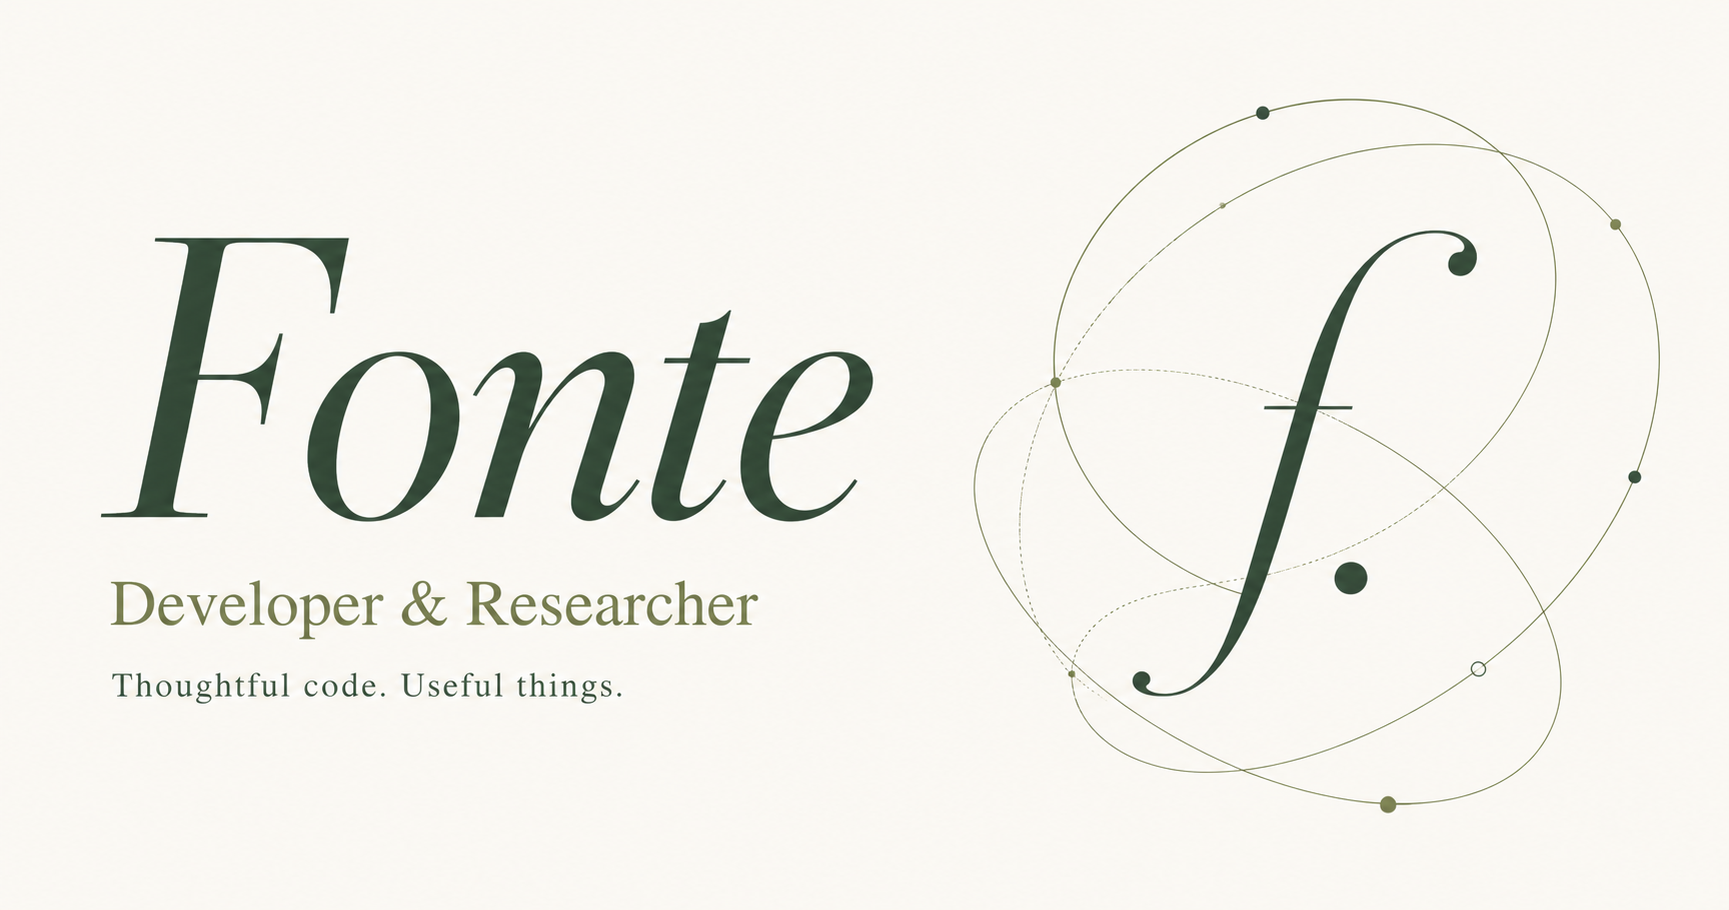
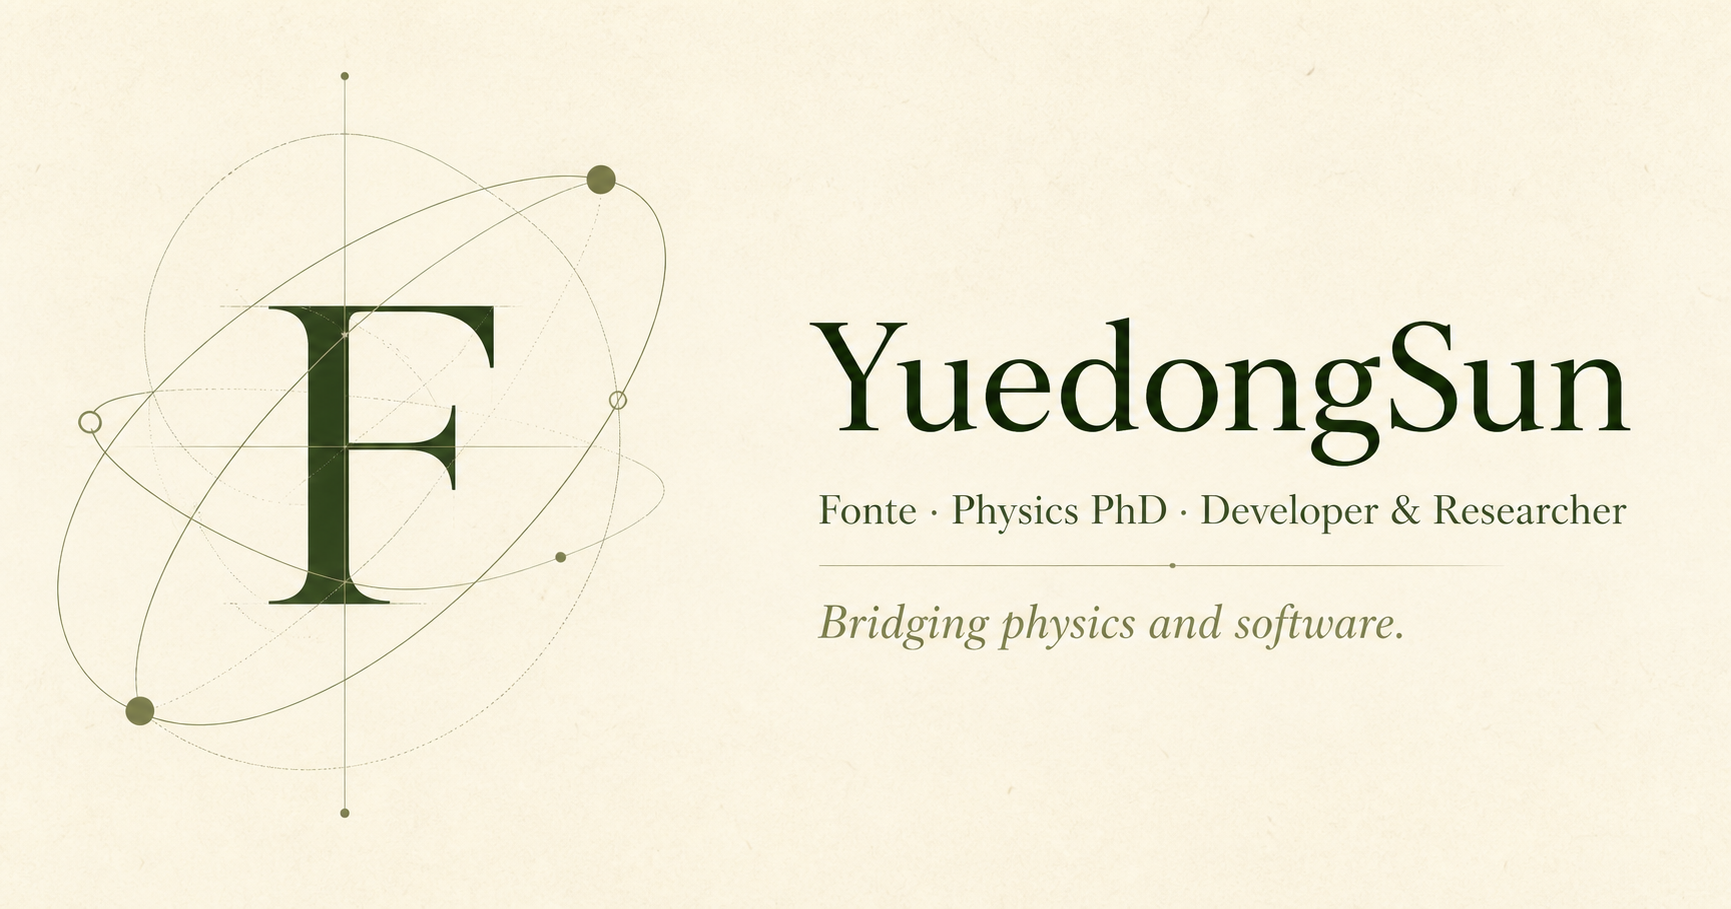
Increase CV typography and update identity

diff --git a/app/globals.css b/app/globals.css
@@ -2026,3 +2026,212 @@ body {
 }
 
 }
+@media screen {
+  body {
+    font-size: 16px;
+  }
+  .site_header nav {
+    font-size: 14px;
+  }
+  .header_note {
+    font-size: 11px;
+  }
+  .eyebrow {
+    font-size: 11px;
+  }
+  .brand_mark {
+    font-size: 30px;
+    line-height: 33px;
+  }
+  .hero h1 {
+    font-size: 78px;
+    letter-spacing: -4px;
+  }
+  .hero_description {
+    font-size: 16px;
+    line-height: 1.85;
+  }
+  .hero_footnote {
+    font-size: 10px;
+  }
+  .button,
+  .text_link {
+    font-size: 13px;
+  }
+  .button {
+    min-height: 50px;
+  }
+  .card_topline {
+    font-size: 10px;
+  }
+  .profile_letter {
+    font-size: 170px;
+    letter-spacing: -8px;
+  }
+  .profile_caption h2 {
+    font-size: 28px;
+  }
+  .profile_caption p,
+  .profile_details {
+    font-size: 13px;
+  }
+  .focus_strip {
+    font-size: 13px;
+  }
+  .focus_strip .eyebrow {
+    font-size: 9px;
+  }
+  .section_heading .eyebrow {
+    font-size: 10px;
+  }
+  .section_heading h2 {
+    font-size: 50px;
+  }
+  .section_aside {
+    font-size: 14px;
+  }
+  .experience_lead {
+    font-size: 24px;
+  }
+  .timeline_period {
+    font-size: 10px;
+  }
+  .timeline_entry h3,
+  .education_entry h3 {
+    font-size: 19px;
+  }
+  .timeline_organization {
+    font-size: 13px;
+  }
+  .timeline_description,
+  .muted_text {
+    font-size: 15px;
+  }
+  .focus_areas li {
+    font-size: 12px;
+  }
+  .draft_note {
+    font-size: 10px;
+  }
+  .projects_intro {
+    font-size: 14px;
+  }
+  .project_filters button {
+    font-size: 12px;
+  }
+  .project_count {
+    font-size: 10px;
+  }
+  .art_index {
+    font-size: 9px;
+  }
+  .project_title_row h3 {
+    font-size: 26px;
+  }
+  .project_body > p {
+    font-size: 14px;
+  }
+  .project_body > p.project_detail {
+    font-size: 12px !important;
+  }
+  .project_tags li {
+    font-size: 10px;
+  }
+  .research_title {
+    font-size: 16px;
+  }
+  .research_item time {
+    font-size: 11px;
+  }
+  .research_summary {
+    font-size: 15px;
+  }
+  .research_details {
+    font-size: 14px;
+  }
+  .research_keywords li {
+    font-size: 10px;
+  }
+  .research_figure figcaption {
+    font-size: 11px;
+  }
+  .publication_copy h3 {
+    font-size: 15px;
+  }
+  .publication_copy > p {
+    font-size: 11px;
+  }
+  .publication_meta {
+    font-size: 12px;
+  }
+  .publication_status {
+    font-size: 10px;
+  }
+  .skill_group_header > span {
+    font-size: 11px;
+  }
+  .skill_group li {
+    font-size: 12px;
+  }
+  .contact_description {
+    font-size: 15px;
+  }
+  .contact_links a {
+    font-size: 13px;
+  }
+  .contact_availability {
+    font-size: 10px;
+  }
+  .footer_caption {
+    font-size: 11px;
+  }
+}
+@media screen and (max-width: 1000px) {
+  .hero h1 {
+    font-size: 64px;
+  }
+  .hero_description {
+    font-size: 15px;
+  }
+  .section_heading h2 {
+    font-size: 45px;
+  }
+  .experience_lead {
+    font-size: 22px;
+  }
+  .project_title_row h3 {
+    font-size: 23px;
+  }
+}
+@media screen and (max-width: 700px) {
+  .site_header nav {
+    font-size: 12px;
+  }
+  .hero h1 {
+    font-size: clamp(50px, 13vw, 64px);
+    letter-spacing: -3px;
+  }
+  .hero_description {
+    font-size: 15px;
+  }
+  .section_heading h2 {
+    font-size: 41px;
+  }
+  .experience_lead {
+    font-size: 22px;
+  }
+  .timeline_description,
+  .muted_text {
+    font-size: 14px;
+  }
+  .research_summary,
+  .research_details {
+    font-size: 13px;
+  }
+  .publication_copy h3 {
+    font-size: 14px;
+  }
+  .contact_description {
+    font-size: 14px;
+  }
+}

diff --git a/app/page.tsx b/app/page.tsx
@@ -34,7 +34,7 @@ export default function Cv_page() {
               <span className="profile_letter">{profile.monogram}</span>
               <span className="art_caption">NO PHOTO,<br />JUST IDEAS.</span>
             </div>
-            <div className="profile_caption"><div><h2>{profile.display_name}</h2><p>{profile.role}</p></div><span className="profile_badge" aria-hidden="true">↗</span></div>
+            <div className="profile_caption"><div><h2>{profile.display_name}</h2><p>{profile.nickname} · {profile.role}</p></div><span className="profile_badge" aria-hidden="true">↗</span></div>
             <dl className="profile_details">
               <div><dt>Research</dt><dd>{profile.focus_areas.slice(0, 2).join(' · ')}</dd></div>
               <div><dt>Training</dt><dd>{primary_education?.title.replace(' in Quantum Optics and Quantum Information', '') ?? 'Research & software'}</dd></div>

diff --git a/lib/profile_contract.ts b/lib/profile_contract.ts
@@ -62,6 +62,7 @@ export interface Project_entry {
 
 export interface Profile_data {
   display_name: string;
+  nickname: string;
   monogram: string;
   github_username: string;
   role: string;
@@ -262,6 +263,7 @@ export function parse_profile(value: unknown): Profile_data {
   });
   return {
     display_name: require_text(record.display_name, 'display_name'),
+    nickname: require_text(record.nickname, 'nickname'),
     monogram: require_text(record.monogram, 'monogram'),
     github_username,
     role: require_text(record.role, 'role'),

diff --git a/readme.md b/readme.md
@@ -6,7 +6,7 @@ A personal CV and repository portfolio with a warm ivory and olive palette. Buil
 
 Update `config/profile.json`. Profile content is validated before rendering or building; malformed records and unsafe links fail with a field-specific error.
 
-- `display_name`, `monogram`, `role`, `summary`, and `availability` control the introduction.
+- `display_name`, `nickname`, `monogram`, `role`, `summary`, and `availability` control the introduction. The current display name is `YuedongSun`, with `Fonte` as the nickname and `F` as the monogram.
 - `github_username` and `site_url` control the profile link and canonical/social URLs.
 - `contact_details` contains the two addresses and the Google Scholar link supplied in the CV.
 - `experience` and `education` contain entries with `title`, `organization`, `period`, and `description`.
